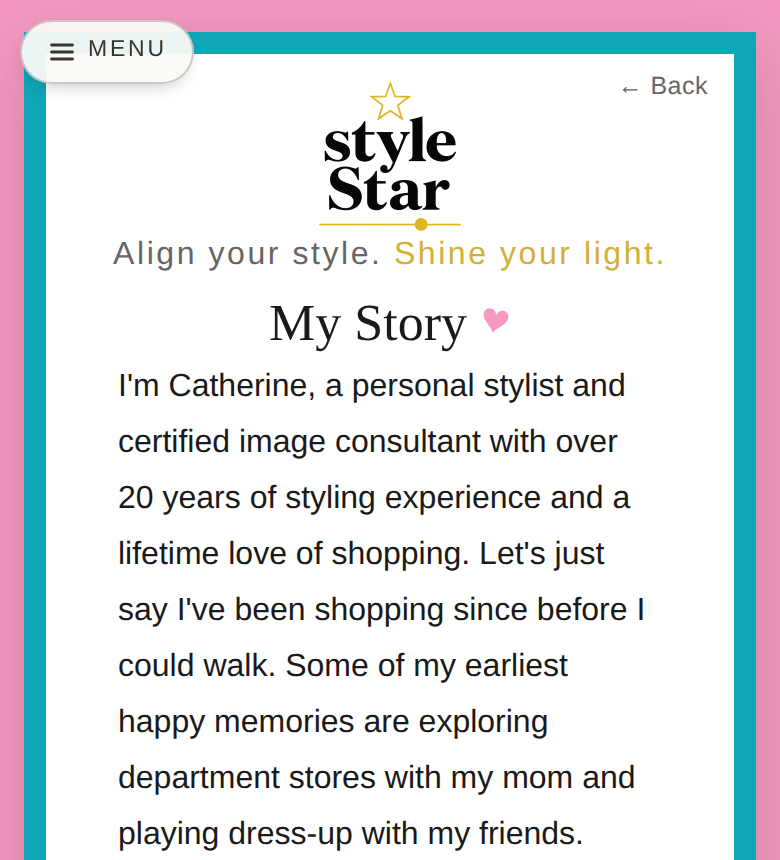
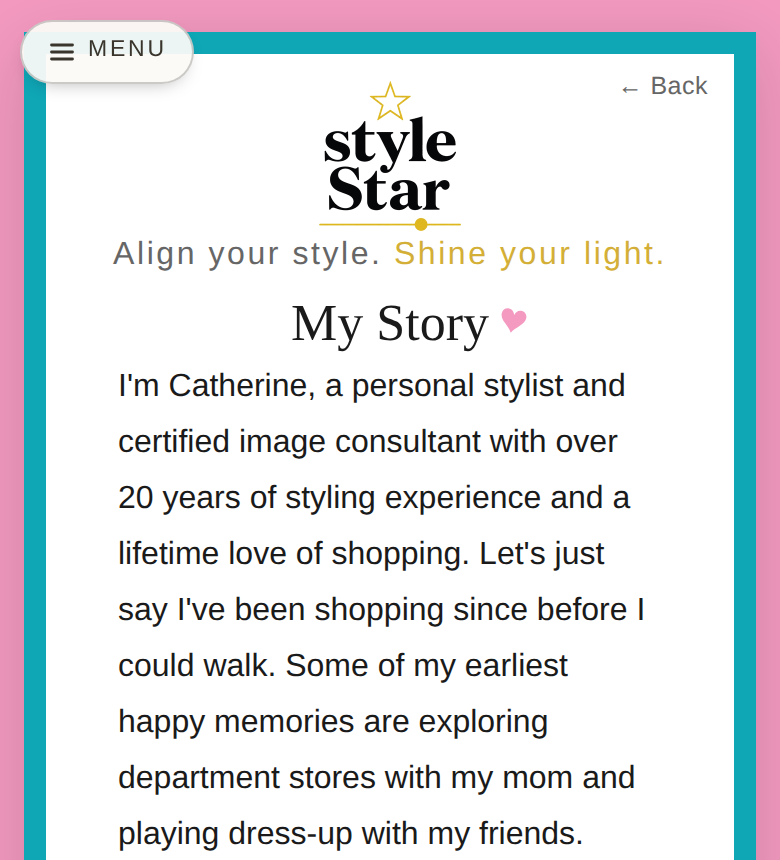
My Story: the words centre on their own, the heart hangs off as an add-on
Her catch. The heart was part of the title's line, so the pair centred together
and the words themselves sat left of centre by half the heart's width. Her
instinct was right that centring the words alone would look better.

Fixed with a negative right margin that cancels the heart's own width plus its
gap, so the heart contributes nothing to the line and "My Story" centres on
itself while the heart hangs off the end. Gap also tightened from 7px to 4px,
her other ask.

Measured: the painted words are now 0px off centre at 430, 390, 375, 360 and
320. The test asserts the WORDS against their container, never the title box,
which would have centred the pair and passed the broken version.

This is the same shape as the trailing-letter-space problem on the curated-by
hearts earlier today: an inline mark quietly shifting the text it sits beside.

Verified: chipheart.js 140 to 150 checks.

Claude-Session: https://claude.ai/code/session_015YyXAYypxt8fZH3TEVX95i

Changed region(s): [[0.3385, 0.3326, 0.6769, 0.4233]]

diff --git a/scratchpad/chipheart.js b/scratchpad/chipheart.js
@@ -88,7 +88,7 @@ for (const w of [430, 390, 375, 360, 320]) {
     const el = hs[0];
     if (!el) return { n: 0 };
     const cs = getComputedStyle(el);
-    const tr = t.getBoundingClientRect(), er = el.getBoundingClientRect();
+    const tr = t.parentElement.getBoundingClientRect(), er = el.getBoundingClientRect();
     const menuCh = document.querySelector('.menu-ch');
     const mcs = menuCh ? getComputedStyle(menuCh) : null;
     // is it AFTER the words?
@@ -103,6 +103,8 @@ for (const w of [430, 390, 375, 360, 320]) {
       trailing: er.left >= words.right - 1,
       sameLine: Math.abs(er.top - words.top) < 22,
       titleLines: [...new Set([...rg.getClientRects()].map(r => Math.round(r.top)))].length,
+      wordsOffCentre: +(((words.left + words.right) / 2) - ((tr.left + tr.right) / 2)).toFixed(2),
+      heartGap: Math.round(er.left - words.right),
       insideCard: er.left > card.left && er.right < card.right,
       menuChFill: mcs ? mcs.fill : null,
       sigHeartStillThere: !!sig,
@@ -115,6 +117,11 @@ for (const w of [430, 390, 375, 360, 320]) {
   ok(h.fill === h.menuChFill, 'the same pink as the Menu row that marks this page hers');
   ok(h.transform !== 'none', 'it is tilted');
   ok(h.trailing, 'it trails the words, like the Menu row and her sign-off');
+  // ⚠ HER CATCH: the WORDS must centre on their own, with the heart hanging off
+  // as an add-on. Measure the painted words against the container, never the
+  // title box (which includes the heart and so centres the pair, not the words).
+  ok(Math.abs(h.wordsOffCentre) <= 1.5, `the WORDS "My Story" are centred (off by ${h.wordsOffCentre}px)`);
+  ok(h.heartGap <= 7, `heart sits close to the words (${h.heartGap}px)`);
   ok(h.sameLine, 'it sits on the title line, not below it');
   ok(h.titleLines === 1, `"My Story" still holds one line (${h.titleLines})`);
   ok(h.insideCard, 'inside the card');

diff --git a/index.html b/index.html
@@ -931,7 +931,14 @@ body.menu-open .menu-panel{display:block}
    hers, and as her "With love, Catherine" sign-off below. Deliberately
    NOT flanking: flanking marks read as a label announcing authorship
    (the Edit's "CURATED BY CATHERINE"), and this page needs no announcing. */
-#s-story .story-title .st-ch{width:15px;height:15px;margin-left:7px;vertical-align:2px;transform:rotate(11deg);fill:#F49AC1;display:inline-block}
+/* ⚠ The negative right margin is LOAD-BEARING and is the whole point: it
+   takes the heart out of the line's width, so "My Story" centres on its
+   own and the heart hangs off the end as an add-on. Without it the words
+   sit left of centre by half the heart's width -- her catch, 2026-08-10,
+   the same shape as the trailing-letter-space problem on the curated-by
+   lines. margin-left is the visual gap; margin-right must cancel
+   (margin-left + width) exactly. */
+#s-story .story-title .st-ch{width:15px;height:15px;margin-left:5px;margin-right:-20px;vertical-align:2px;transform:rotate(11deg);fill:#F49AC1;display:inline-block}
 /* Her ask (2026-08-10): close the gap between the tagline and "My Story". It was
    24px built from three separate paddings (.hdr bottom 8 + .inner top 8 +
    .story-wrap top 8). Scoped to the story skin so the tuned spacing on Welcome
